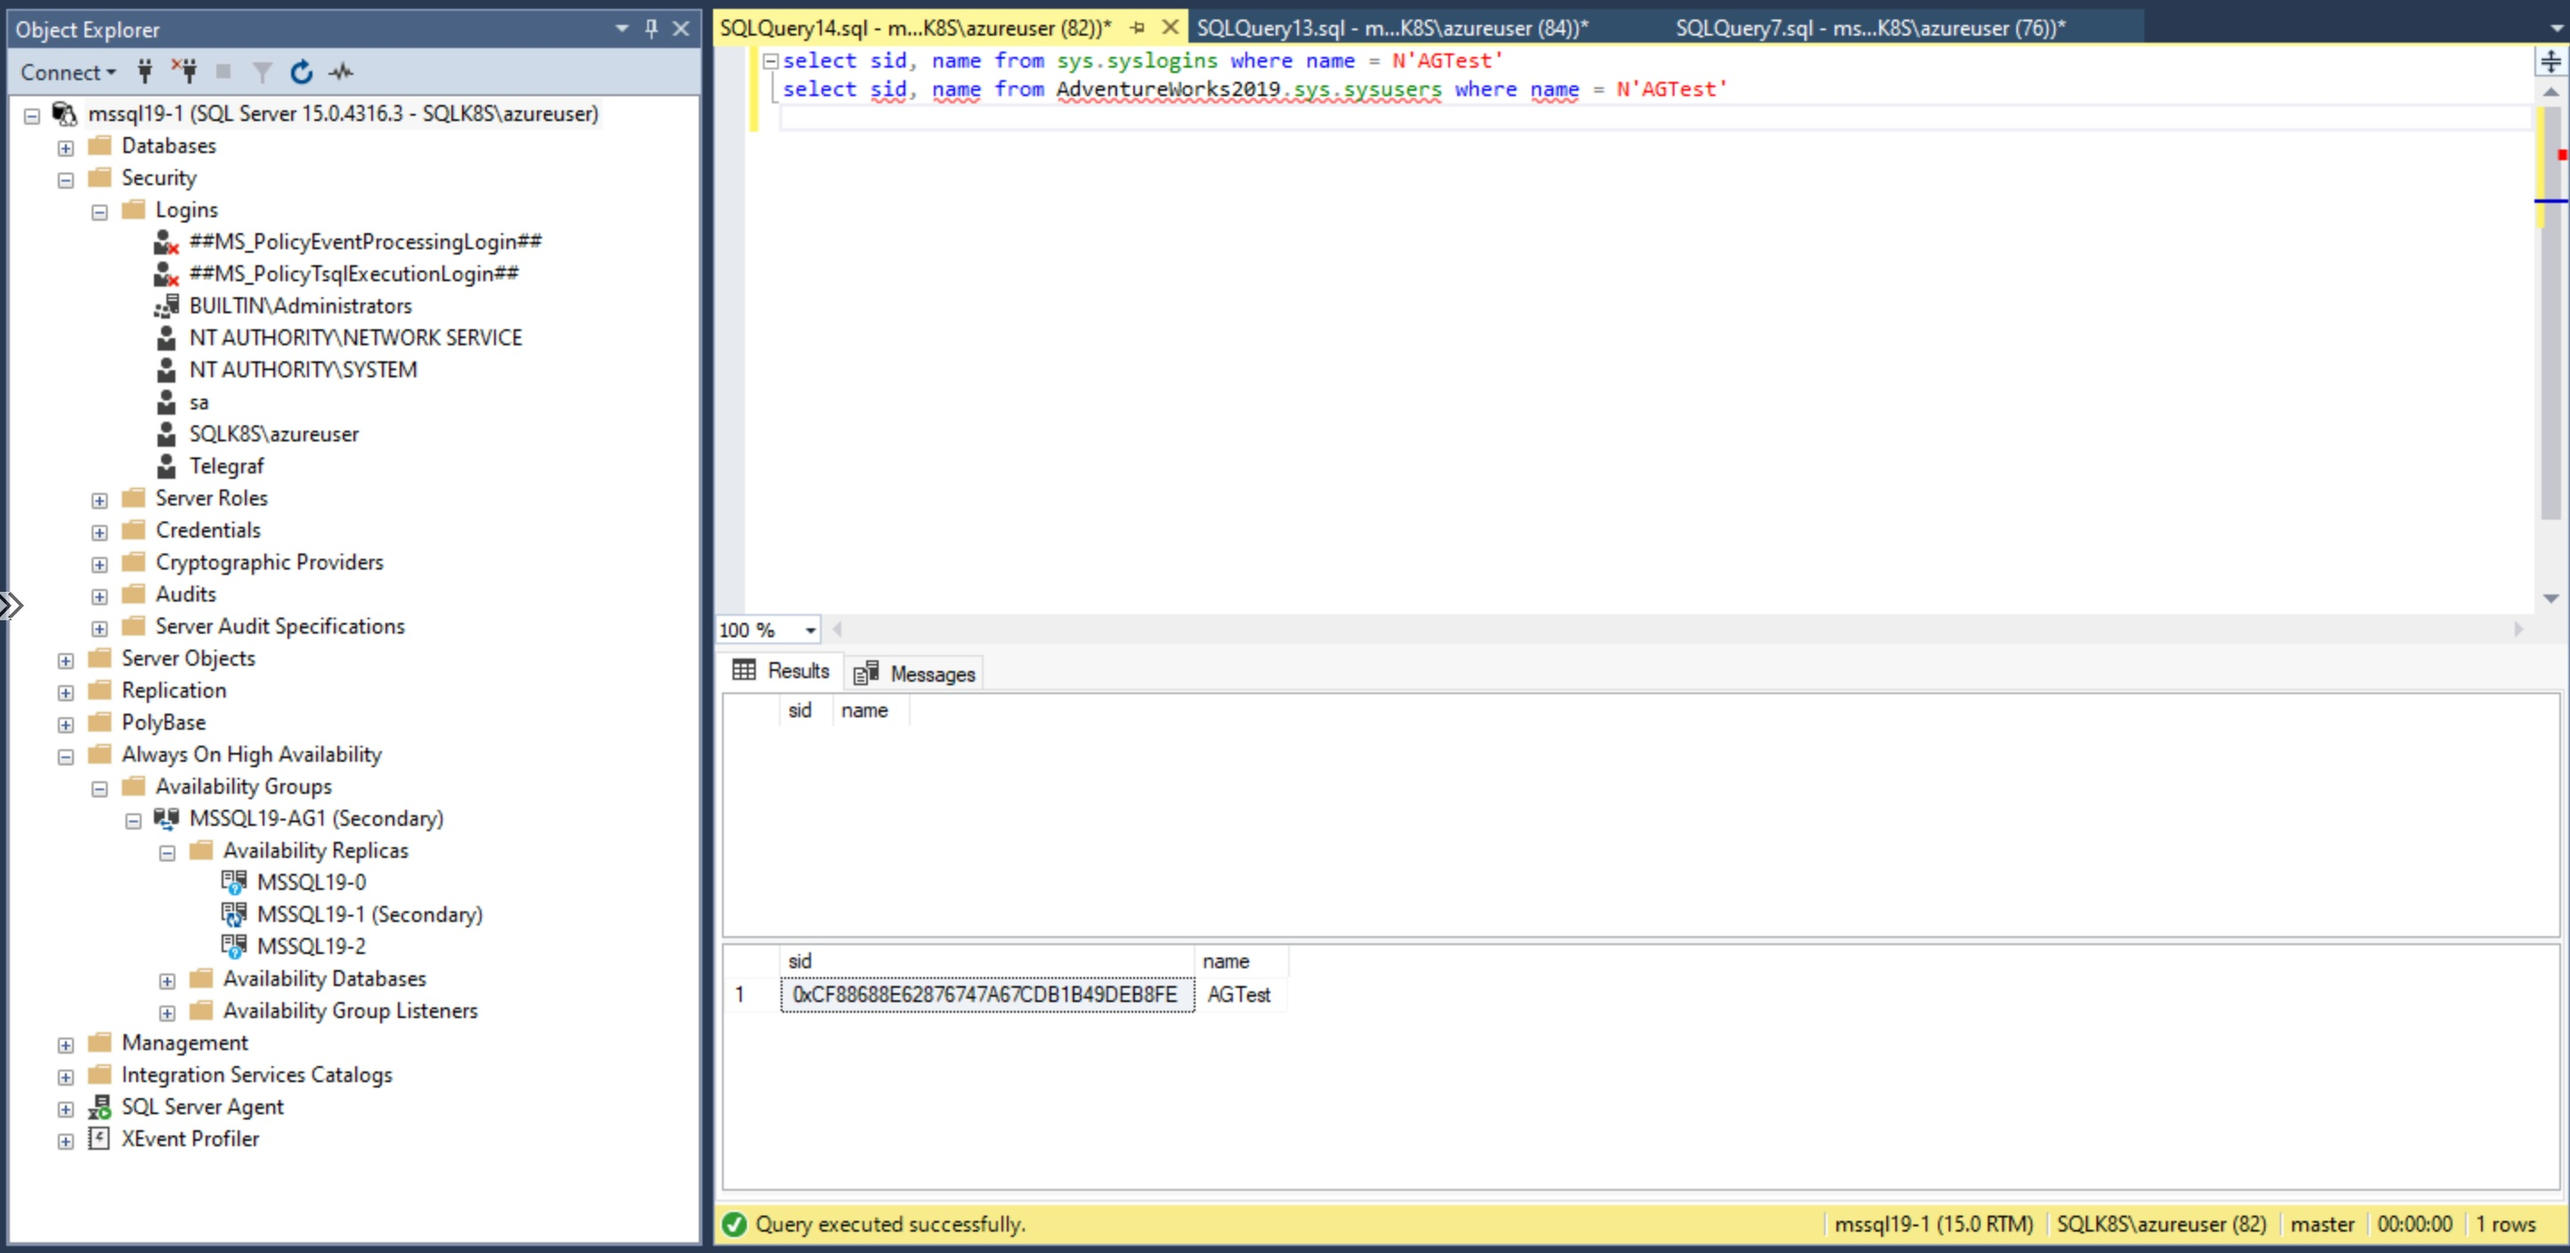
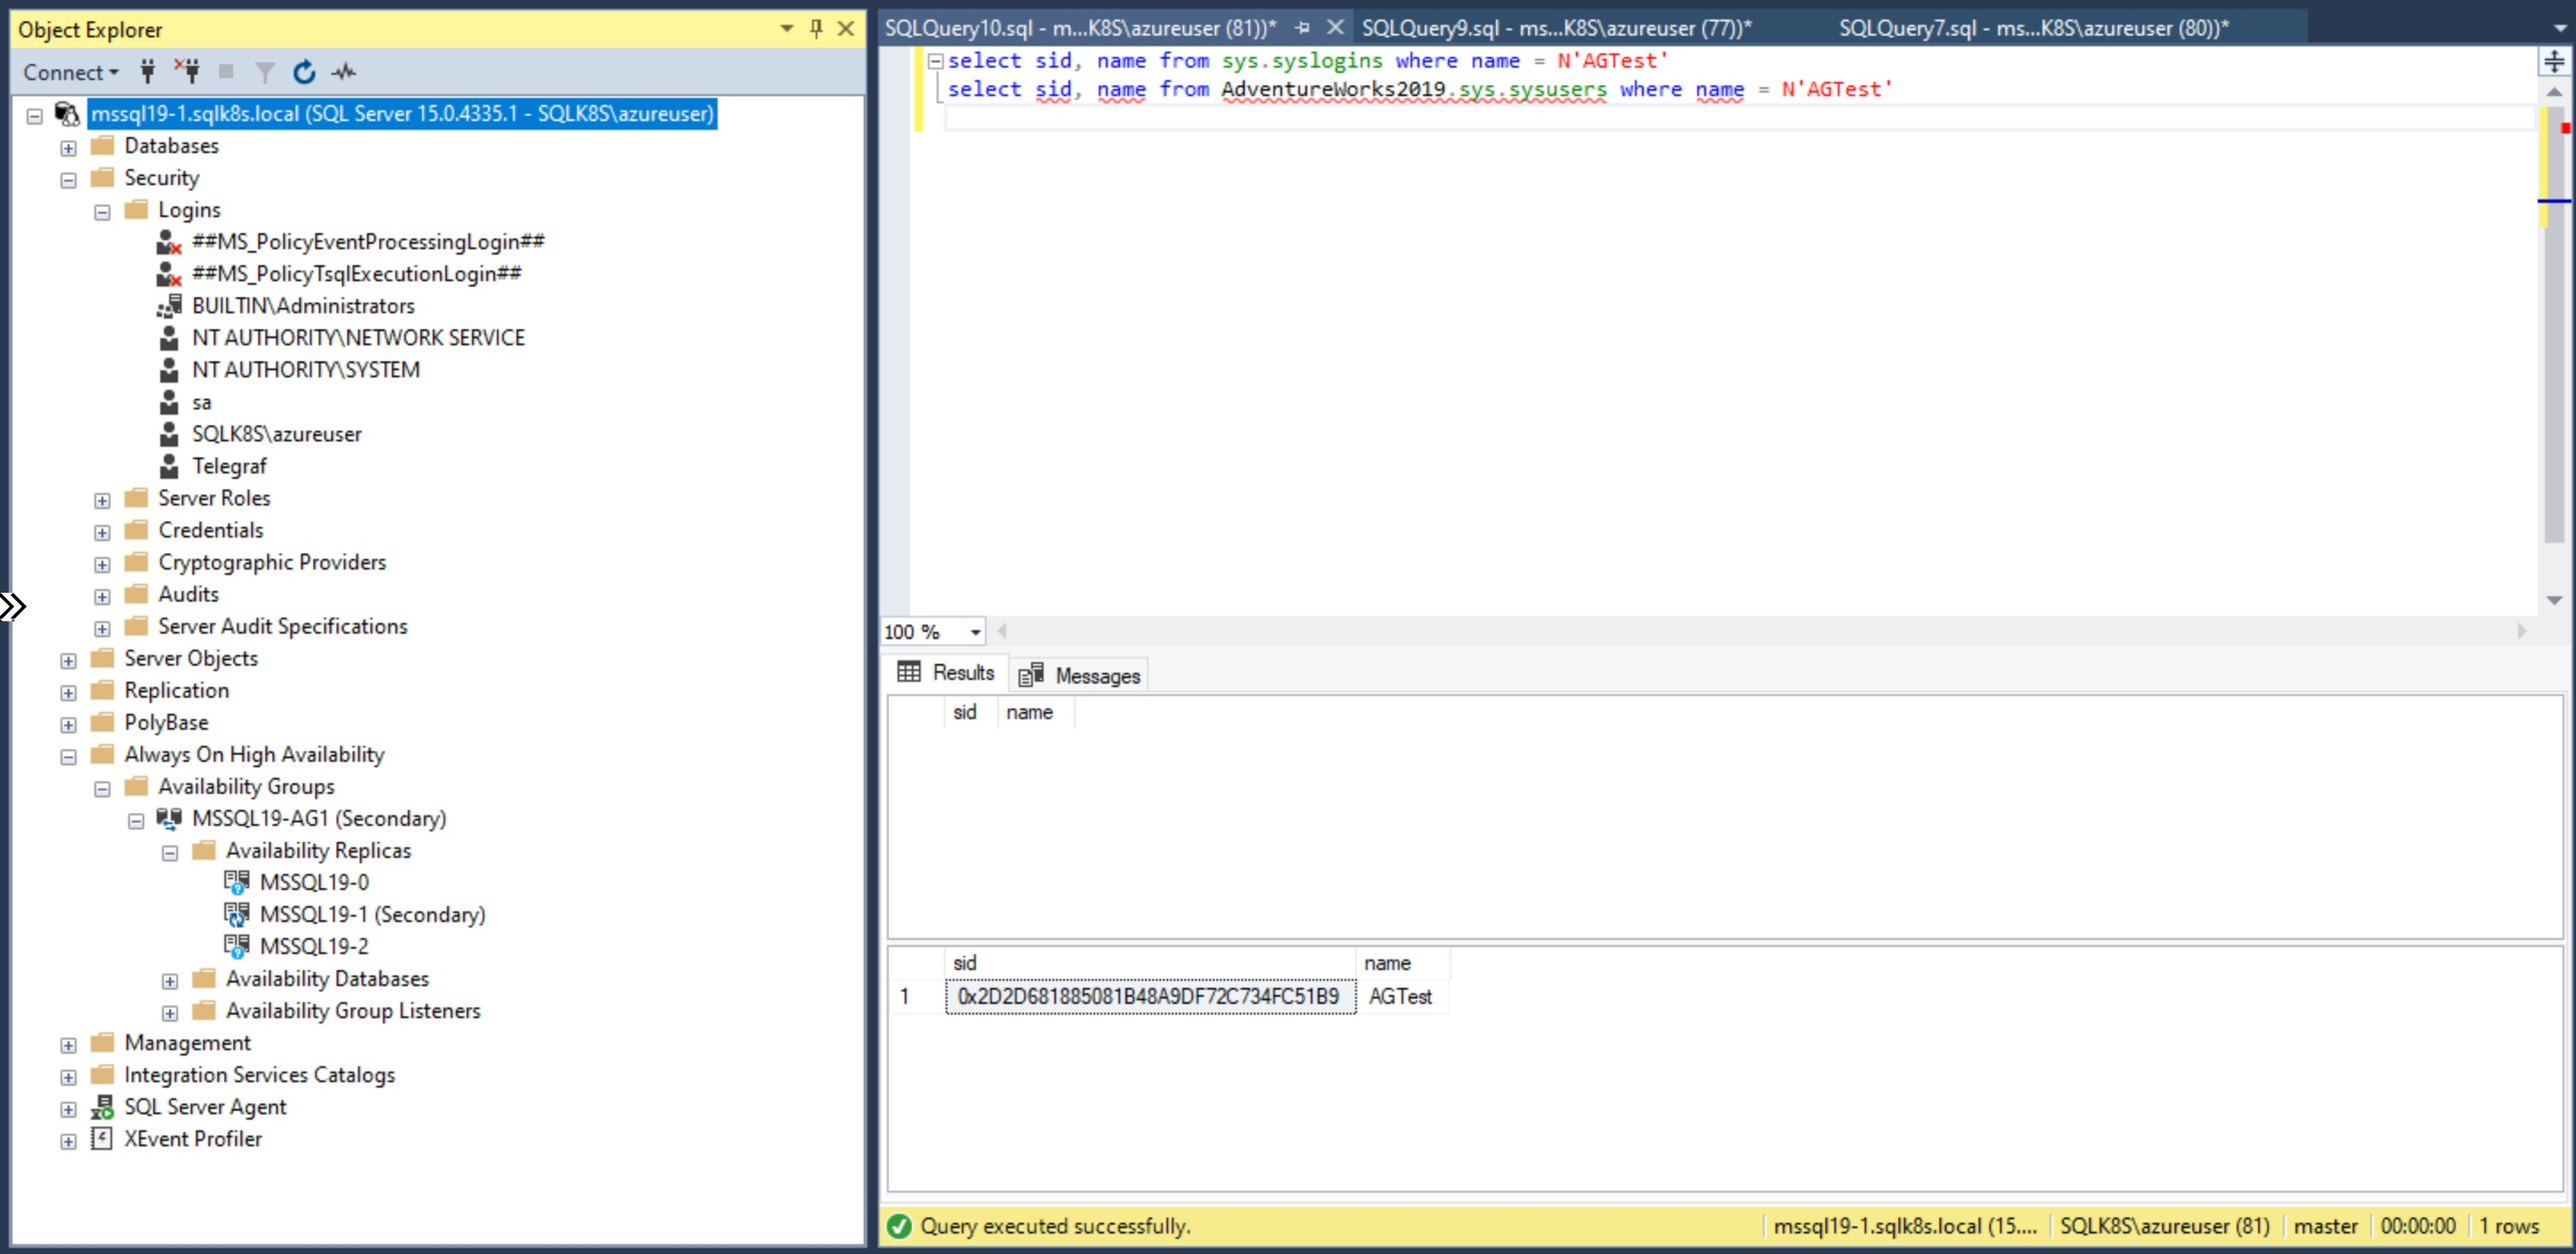
Updated screenshots on logins.md

Changed region(s): [[0.0, 0.0, 1.0, 1.0]]

diff --git a/modules/setup.md b/modules/setup.md
@@ -21,7 +21,7 @@ The following resources will be deployed (takes around 40 minutes to deploy).
     * SqlK8sJumpbox (Client used to run scripts with 1 Nic and 1 OS Disk)
 * 4 Network Security Groups (1 for each subnet and 1 for Nic on SqlK8sJumpbox)
 * 2 Public IP Addresses (1 for Bastion and 1 for Jumpbox)
-* Azure Kubernetes Cluster (VM Scale Set with 2 - 3 Standard_D8s_v3 VMs)
+* Azure Kubernetes Cluster (VM Scale Set with 2 - 4 Standard_D8s_v3 VMs)
 
 **NB: This deployment can be expensive to keep running but you can reduce costs by shutting down the 3 Virtual Machines and AKS Cluster and starting up when required.  You can also drop the bastion host when shutting down the Virtual Machines and then re-create when required.** 
 
